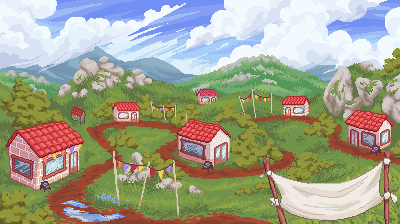
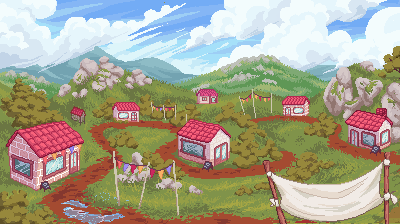
Cambios arte
+ Repisas para Felipe
+ Metido Imagen Map State

diff --git a/AnimalCooking/MapConfig.cpp b/AnimalCooking/MapConfig.cpp
@@ -24,9 +24,9 @@ void MapConfig::fill()
   /////////////////////////////////////
 
 	auxiliar.name = "";
-	auxiliar.lore[0] = "Get the kitchens ready, the cooking competition starts in Villa del Pun!";
-	auxiliar.lore[1] = "Your first opponents are your pastrycook neighbours...";
-	auxiliar.lore[2] = "Can you beat them?";
+	auxiliar.lore[0] = "Get the kitchens ready, the cooking competition starts in Villa";
+	auxiliar.lore[1] = "del Pun!Your first opponents are your pastrycook neighbours...";
+	auxiliar.lore[2] = "pastrycook neighbours...Can you beat them?";
 	auxiliar.buttonPosition = Vector2D(415, 807);
 	auxiliar.buttonsSize = Vector2D(80, 40);
 
@@ -37,9 +37,9 @@ void MapConfig::fill()
   /////////////////////////////////////
 
 	auxiliar.name = "";
-	auxiliar.lore[0] = "The villagers have found out about the cooking competition! But the best restaurant";
-	auxiliar.lore[1] = "in the village wants to challenge you to be the village representative.";	
-	auxiliar.lore[2] = "Show them what a gourmet dish is!";
+	auxiliar.lore[0] = "The villagers have found out about the cooking competition! But the";
+	auxiliar.lore[1] = "best restaurant in the village wants to challenge you to be the ";	
+	auxiliar.lore[2] = "village representative. Show them what a gourmet dish is!";
 	auxiliar.buttonPosition = Vector2D(594, 590);
 	auxiliar.buttonsSize = Vector2D(40, 20);
 	levelsRecipes_.push_back(auxiliar);
@@ -49,8 +49,8 @@ void MapConfig::fill()
   /////////////////////////////////////
 
 	auxiliar.name = "";
-	auxiliar.lore[0] = "You've moved on to the next phase, however, you still have a long way to go.";
-	auxiliar.lore[1] = "It's your turn to join the other villages at Serendipity.";
+	auxiliar.lore[0] = "You've moved on to the next phase, however, you still have a long";
+	auxiliar.lore[1] = "way to go. It's your turn to join the other villages at Serendipity.";
 	auxiliar.lore[2] = "Look out! There are a lot of planes passing by.";
 	auxiliar.buttonPosition = Vector2D(1008, 820);
 	auxiliar.buttonsSize = Vector2D(80, 40);
@@ -77,7 +77,7 @@ void MapConfig::fill()
 	auxiliar.name = "";
 	auxiliar.lore[0] = "Ingredients...ready. Utensils... ready.";
 	auxiliar.lore[1] = "Get prepared, because you have reached";
-	auxiliar.lore[2] = "THE GRAND FINAL!";
+	auxiliar.lore[2] = "The Grand Final!";
 	auxiliar.buttonPosition = Vector2D(1693, 720);
 	auxiliar.buttonsSize = Vector2D(70, 35);
 
@@ -92,7 +92,7 @@ void MapConfig::fill()
 	auxiliar.lore[0] = "Extra 1. Extra 1. Extra 1. Extra 1.";
 	auxiliar.lore[1] = "Extra 1. Extra 1. Extra 1. Extra 1.";
 	auxiliar.lore[2] = "Extra 1. Extra 1. Extra 1. Extra 1.";
-	auxiliar.buttonPosition = Vector2D(1050, 460);
+	auxiliar.buttonPosition = Vector2D(950, 500);
 	auxiliar.buttonsSize = Vector2D(46, 23);
 
 	levelsRecipes_.push_back(auxiliar);
@@ -102,7 +102,7 @@ void MapConfig::fill()
 	auxiliar.lore[0] = "6 Ingredients...ready. Utensils... ready.";
 	auxiliar.lore[1] = "Get prepared, because you have reached";
 	auxiliar.lore[2] = "THE GRAND FINAL!";
-	auxiliar.buttonPosition = Vector2D(415, 807);
+	auxiliar.buttonPosition = Vector2D(490, 950);
 	auxiliar.buttonsSize = Vector2D(80, 40);
 
 	levelsRecipes_.push_back(auxiliar);
@@ -111,8 +111,8 @@ void MapConfig::fill()
 	auxiliar.lore[0] = "7 Ingredients...ready. Utensils... ready.";
 	auxiliar.lore[1] = "Get prepared, because you have reached";
 	auxiliar.lore[2] = "THE GRAND FINAL!";
-	auxiliar.buttonPosition = Vector2D(594, 590);
-	auxiliar.buttonsSize = Vector2D(40, 20);
+	auxiliar.buttonPosition = Vector2D(1020, 1000);
+	auxiliar.buttonsSize = Vector2D(70, 35);
 
 	levelsRecipes_.push_back(auxiliar);
 	//8
@@ -120,8 +120,8 @@ void MapConfig::fill()
 	auxiliar.lore[0] = "8 Ingredients...ready. Utensils... ready.";
 	auxiliar.lore[1] = "Get prepared, because you have reached";
 	auxiliar.lore[2] = "THE  GRAND  FINAL!";
-	auxiliar.buttonPosition = Vector2D(1008, 820);
-	auxiliar.buttonsSize = Vector2D(80, 40);
+	auxiliar.buttonPosition = Vector2D(810,710);
+	auxiliar.buttonsSize = Vector2D(40, 20);
 
 	levelsRecipes_.push_back(auxiliar);
 	//9
@@ -129,8 +129,8 @@ void MapConfig::fill()
 	auxiliar.lore[0] = "9 Ingredients...ready. Utensils... ready.";
 	auxiliar.lore[1] = "Get prepared, because you have reached";
 	auxiliar.lore[2] = "THE GRAND FINAL!";
-	auxiliar.buttonPosition = Vector2D(1380, 560);
-	auxiliar.buttonsSize = Vector2D(40, 20);
+	auxiliar.buttonPosition = Vector2D(1520, 780);
+	auxiliar.buttonsSize = Vector2D(60, 30);
 
 	levelsRecipes_.push_back(auxiliar);
 	//10
@@ -151,7 +151,7 @@ void MapConfig::fill()
 	auxiliar.lore[0] = "Extra 2. Extra 2. Extra 2. Extra 2.";
 	auxiliar.lore[1] = "Extra 2. Extra 2. Extra 2. Extra 2.";
 	auxiliar.lore[2] = "Extra 2. Extra 2. Extra 2. Extra 2.";
-	auxiliar.buttonPosition = Vector2D(1050, 460);
+	auxiliar.buttonPosition = Vector2D(912, 270);
 	auxiliar.buttonsSize = Vector2D(46, 23);
 
 	levelsRecipes_.push_back(auxiliar);

diff --git a/AnimalCooking/MapState.cpp b/AnimalCooking/MapState.cpp
@@ -34,7 +34,7 @@ MapState::MapState(AnimalCooking* ac) :
 	casillaY = game_->getCasillaY();
 	//Background textures
 	bgText_.push_back(game_->getTextureMngr()->getTexture(Resources::MapStateBackground));
-	bgText_.push_back(game_->getTextureMngr()->getTexture(Resources::MapStateBackground));
+	bgText_.push_back(game_->getTextureMngr()->getTexture(Resources::MapState2Background));
 	//Play and return buttons textures
 	playButtonText_ = new Texture(game_->getRenderer(), "PLAY", game_->getFontMngr()->getFont(Resources::FontId::QuarkCheese100), hex2sdlcolor("#ffffffff"));
 	chooseOption();
@@ -435,7 +435,7 @@ void MapState::placeHousesAndButtons()
 	transforms_.push_back(Transform(Vector2D(1008, 820), Vector2D(), 80, 40));
 	transforms_.push_back(Transform(Vector2D(1380, 560), Vector2D(), 40, 20));
 	transforms_.push_back(Transform(Vector2D(1693, 720), Vector2D(), 70, 35));
-	transforms_.push_back(Transform(Vector2D(1050, 460), Vector2D(), 46, 23));
+	transforms_.push_back(Transform(Vector2D(950, 500), Vector2D(), 46, 23));
 
 	for (int x = 0; x < levelPacks_; x++) {
 		levelButtonsPool_.push_back(stage->addEntity());
@@ -446,17 +446,17 @@ void MapState::placeHousesAndButtons()
 	}
 
 	nextScreenButton_ = stage->addEntity();
-	Texture* aux = game_->getTextureMngr()->getTexture(Resources::buttonGo);
-	nextScreenButton_->addComponent<Transform>(Vector2D(game_->getWindowWidth() - aux->getWidth() / 2, (game_->getWindowHeight() / 2) - (aux->getHeight() / 2)), Vector2D(0, 0), aux->getWidth() / 2, aux->getHeight() / 2);
+	Texture* aux = game_->getTextureMngr()->getTexture(Resources::ButtonNext);
+	nextScreenButton_->addComponent<Transform>(Vector2D(game_->getWindowWidth() - aux->getWidth(), (game_->getWindowHeight() / 2)), Vector2D(0, 0), aux->getWidth() - 20, aux->getHeight());
 	ButtonBehaviour* bb = nextScreenButton_->addComponent<ButtonBehaviour>(nextScreenCallBack, app);
-	ButtonRenderer* br = nextScreenButton_->addComponent<ButtonRenderer>(game_->getTextureMngr()->getTexture(Resources::buttonGo), nullptr);
+	ButtonRenderer* br = nextScreenButton_->addComponent<ButtonRenderer>(game_->getTextureMngr()->getTexture(Resources::ButtonNext), nullptr);
 	bb->setButtonRenderer(br);
 	stage->addToGroup(nextScreenButton_, ecs::GroupID::topLayer);
 
 	PreviousScreenButton_ = stage->addEntity();
-	PreviousScreenButton_->addComponent<Transform>(Vector2D(0, (game_->getWindowHeight() / 2) - (aux->getHeight() / 2)), Vector2D(0, 0), aux->getWidth() / 2, aux->getHeight() / 2);
-	 bb = PreviousScreenButton_->addComponent<ButtonBehaviour>(previousScreenCallBack, app);
-	 br = PreviousScreenButton_->addComponent<ButtonRenderer>(game_->getTextureMngr()->getTexture(Resources::buttonGo), nullptr);
+	PreviousScreenButton_->addComponent<Transform>(Vector2D(0, (game_->getWindowHeight() / 2)), Vector2D(0, 0), aux->getWidth() - 20, aux->getHeight());
+	bb = PreviousScreenButton_->addComponent<ButtonBehaviour>(previousScreenCallBack, app);
+	br = PreviousScreenButton_->addComponent<ButtonRenderer>(game_->getTextureMngr()->getTexture(Resources::ButtonPrev), nullptr);
 	bb->setButtonRenderer(br);
 	stage->addToGroup(PreviousScreenButton_, ecs::GroupID::topLayer);
 

diff --git a/AnimalCooking/Resources.cpp b/AnimalCooking/Resources.cpp
@@ -49,6 +49,7 @@ vector<Resources::ImageInfo> Resources::images_{
 	//MapState
 	{ Basic, NameAsker, "../AnimalCooking/resources/images/provisional/NameAskerBG.png" },
 	{ Basic, MapStateBackground, "../AnimalCooking/resources/images/Mapstate/mapState.png" },
+	{ Basic, MapState2Background, "../AnimalCooking/resources/images/Mapstate/mapState2.png" },
 	{ Basic, MapStateInfoBox, "../AnimalCooking/resources/images/Mapstate/panelMapInfo.png" },
 
 	
@@ -440,6 +441,8 @@ vector<Resources::SpritesheetInfo> Resources::spritesheets_{
 	{Basic, LightingStrike,"../AnimalCooking/resources/images/Adversities/lighting.png",1,8},
 	{Basic, LightingExplosion,"../AnimalCooking/resources/images/Adversities/explosion.png",1,7},
 	{Basic, MapRestaurantButton, "../AnimalCooking/resources/images/Mapstate/MapStateBotones.png",1,3 },	//Mapstate
+	{Basic, ButtonNext, "../AnimalCooking/resources/images/Mapstate/nextButton.png",1,3 },					//Mapstate
+	{Basic, ButtonPrev, "../AnimalCooking/resources/images/Mapstate/prevButton.png",1,3 },					//Mapstate
 	{Basic, TextureId::MapStatePlayButton, "../AnimalCooking/resources/images/Mapstate/mapStatePlayButton.png",1,3 },
 	{Basic, Explosion, "../AnimalCooking/resources/images/Animaciones/Otro/humillo.png",1,7 }
 

diff --git a/AnimalCooking/Resources.h b/AnimalCooking/Resources.h
@@ -51,7 +51,10 @@ public:
 		//MapState
 		NameAsker,
 		MapStateBackground,
+		MapState2Background,
 		MapStateInfoBox,
+		ButtonNext,
+		ButtonPrev,
 
 		//Botones del mando
 		GPad_a,
